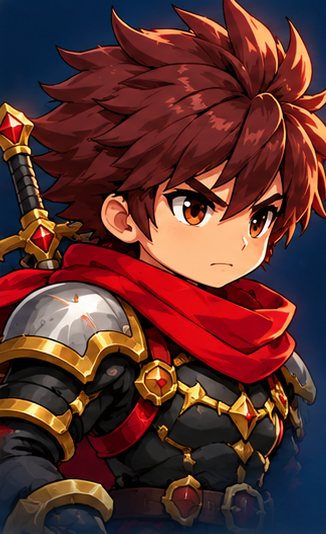
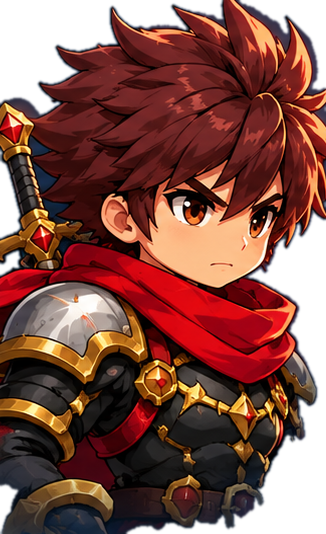
Karakter seçimi: karakter büyüyüp kartın dışına taşar, seçilen kart parlar, diğeri kararır
Claude-Session: https://claude.ai/code/session_01TUfHxHZvSbtHegZ73eiLSr

diff --git a/CLASHBORN/src/styles/main.css b/CLASHBORN/src/styles/main.css
@@ -417,3 +417,15 @@ div.sel-logo { height: auto; font: 900 clamp(26px, 10vh, 56px)/1 "Trebuchet MS",
 #loading p { position: absolute; left: 0; right: 0; top: calc(66% + clamp(22px, 7.5vh, 40px)); text-align: center; font-size: clamp(11px, 3.4vh, 16px); }
 
 img.sel-logo { height: clamp(52px, 22vh, 120px); width: auto; max-width: 70vw; margin: 0 auto 2px; filter: drop-shadow(0 3px 4px rgba(0,0,0,.55)); }
+
+/* Karakter öne çıkma: sanat şeffaf kesim; kartın alt kenarına sabit, üst/yanlara taşabilir */
+.sel-card { overflow: visible; position: relative; transition: transform .22s ease, box-shadow .22s ease, filter .3s ease; -webkit-tap-highlight-color: transparent; }
+.sel-card .sc-art { overflow: visible; z-index: 2; pointer-events: none; }
+.sc-art img { -webkit-mask-image: none; mask-image: none; inset: auto; left: 0; bottom: 0; width: 100%; height: 100%; object-fit: contain; object-position: 50% 100%; transform-origin: 40% 100%; transition: transform .28s cubic-bezier(.2,.9,.3,1.2), filter .28s ease; clip-path: inset(-200px -60px 0 0 round 0 0 0 16px); filter: drop-shadow(0 4px 6px rgba(0,0,0,.45)); }
+.sc-body { position: relative; z-index: 1; }
+.sel-card:hover, .sel-card:focus-visible { transform: translateY(-3px); }
+.sel-card:hover .sc-art img, .sel-card:focus-visible .sc-art img { transform: scale(1.12); filter: drop-shadow(0 6px 10px rgba(0,0,0,.55)); }
+.sel-card.picked { transform: translateY(-6px) scale(1.04); z-index: 5; box-shadow: 0 0 0 3px #ffd75a, 0 0 34px rgba(255,215,90,.75), 0 10px 24px rgba(0,0,0,.5); }
+.sel-card.picked .sc-art img { transform: scale(1.2) translateY(-1%); filter: drop-shadow(0 0 14px rgba(255,220,120,.85)) drop-shadow(0 8px 12px rgba(0,0,0,.6)); }
+.sel-cards.picking .sel-card:not(.picked) { filter: brightness(.45) saturate(.6); transform: scale(.96); }
+.sel-cards { padding-top: clamp(6px, 3vh, 18px); }

diff --git a/CLASHBORN/src/main.js b/CLASHBORN/src/main.js
@@ -54,7 +54,11 @@ function chooseHero() {
       const sv = Save.of(h.id), info = sv ? `Lv. ${sv.level} · ${chapterInfo(sv.stage || Math.floor(((sv.wave || 1) - 1) / 5) + 1).short}` : 'Yeni oyun';
       const sk = (SKILLS[h.id] || []).map((id) => { const im = Assets.get('select_skill_' + id); return im ? `<img src="${im.src}" alt="">` : ''; }).join('');
       b.innerHTML = `<div class="sc-art">${art ? `<img src="${art.src}" alt="">` : ''}</div><div class="sc-body"><div class="sc-name">${h.name}</div><div class="sc-role">${hc.role}</div><ul class="sc-stats">${rows.map((k) => rowHtml(k, mods[k])).join('')}</ul><div class="sc-skills">${sk}</div><div class="sc-info">${info}</div></div>`;
-      b.addEventListener('click', () => { setHero(h.id); Save.setLast(h.id); box.classList.add('hidden'); resolve(h.id); });
+      let busy = false;
+      b.addEventListener('click', () => {                         // seçilen karakter öne çıkar (büyür, kartın dışına taşar), diğeri kararır; kısa animasyondan sonra oyun başlar
+        if (busy) return; busy = true; cards.classList.add('picking'); b.classList.add('picked');
+        setTimeout(() => { setHero(h.id); Save.setLast(h.id); box.classList.add('hidden'); cards.classList.remove('picking'); resolve(h.id); }, 550);
+      });
       cards.appendChild(b);
     }
     const wipe = document.getElementById('sel-wipe'); let armed = false;

diff --git a/CLASHBORN/sw.js b/CLASHBORN/sw.js
@@ -1,7 +1,7 @@
 /* CLASHBORN service worker — çevrimdışı oynama.
  * Strateji: kabuk (index, css, js, json) AĞ ÖNCELİKLİ (güncelleme hemen gelir, ağ yoksa önbellek); görseller/yazı tipi/ses ÖNBELLEK ÖNCELİKLİ (bir kez indirilir).
  * Sürüm: VERSION değişince eski önbellek silinir (tools/build_sw.py her yayın öncesi günceller). */
-const VERSION = 'clashborn-3fd3d5c2f0';
+const VERSION = 'clashborn-80e2acb50d';
 const CORE = ['./', './index.html', './manifest.webmanifest', './src/main.js', './src/styles/main.css', './data/asset_manifest.json'];
 const isAsset = (u) => /\.(png|jpg|jpeg|webp|gif|svg|woff2?|ttf|mp3|ogg|wav)$/i.test(u.pathname);
 

diff --git a/CLASHBORN/docs/README.md b/CLASHBORN/docs/README.md
@@ -499,3 +499,6 @@ Bildirim (TestFlight, ekran görüntüsü): vuruş yayının kenarında siyah/la
 
 ## Faz 80 — Yükleme ekranı
 - Arka plan `assets/ui/menus/loading_bg.jpg` (tasarım görseli; çubuk/yazı bölgesi temizlendi, logo görselde hazır). İlerleme çubuğu ve "Yükleniyor…" yazısı canlı CSS ile üstüne çizilir.
+
+## Faz 81 — Seçimde karakter öne çıkar
+- Kart sanatı şeffaf kesim (`select_*_art.png`); üzerine gelince/dokununca karakter büyür ve kartın üstüne taşar, seçilen kart altın parlar, diğeri kararır; 0,55 sn sonra oyun başlar.
